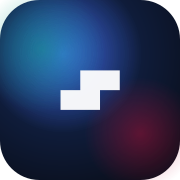
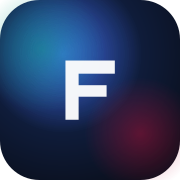
Rename: Saves → Finds
Product brand commitment after Saved-vs-Kept-vs-Finds analysis. Finds
wins on every dimension: natural English ('what's your latest find?'),
positive connotation (discovery), maps directly to the user's action
(spotting something interesting on Instagram), captures the household
share dynamic (Keelin's finds, our finds), and doesn't carry feature-
name baggage like Saves did.

User-facing rename:
- public/icon.svg now uses a block-F glyph instead of the S; PNG icons
  regenerated via npm run icons
- components/animated-wordmark.tsx letters: 'Saves' → 'Finds', per-letter
  min-widths tuned for the new glyphs
- app/layout.tsx metadata: title 'Finds', appleWebApp.title 'Finds',
  new tagline 'The things you find, kept.'
- public/manifest.json: name 'Finds', short_name 'Finds', new description
- app/login/page.tsx: header reads Finds
- app/saves/[id]/page.tsx: back link 'All Finds'
- app/add/add-form.tsx: 'Save It' button → 'Keep' (brand-aligned action)
- components/feed/feed-client.tsx: empty state 'No finds yet', CTA 'Add
  your first find →'
- app/map/map-client.tsx: empty state 'No places yet'
- app/settings/page.tsx: Shortcut copy updated to 'Send to Finds'

Internal kept stable (avoids cascading code changes):
- package.json name changed for cleanliness (saves-scaffold → finds)
- /saves/[id] route, lib/data/saves.ts, getFeedSaves(), the  DB
  table, save_category enum — all retain the legacy 'save' identifier.
[…]

Changed region(s): [[0.3333, 0.3333, 0.6667, 0.6667]]

diff --git a/app/settings/page.tsx b/app/settings/page.tsx
@@ -36,8 +36,8 @@ export default async function SettingsPage() {
           <header className="space-y-1.5">
             <p className="font-mono text-[10px] tracking-widest text-white/30">iOS Shortcut</p>
             <p className="text-[13px] text-white/55 leading-relaxed max-w-prose">
-              Save from any app — Instagram, Safari, Mail — without leaving it.
-              The Shortcut posts the URL to Saves in the background and shows
+              Send a find from any app — Instagram, Safari, Mail — without leaving it.
+              The Shortcut posts the URL to Finds in the background and shows
               a brief confirmation notification.
             </p>
           </header>
@@ -45,7 +45,7 @@ export default async function SettingsPage() {
           <ol className="space-y-3 text-[13px] text-white/65 leading-relaxed">
             <li className="flex gap-3">
               <span className="font-mono text-[10px] text-white/30 mt-0.5">1</span>
-              <span>Open <strong className="text-white/85">Shortcuts</strong> app, tap <strong className="text-white/85">+</strong>, name it <em>Save To Saves</em>.</span>
+              <span>Open <strong className="text-white/85">Shortcuts</strong> app, tap <strong className="text-white/85">+</strong>, name it <em>Send to Finds</em>.</span>
             </li>
             <li className="flex gap-3">
               <span className="font-mono text-[10px] text-white/30 mt-0.5">2</span>
@@ -69,11 +69,11 @@ export default async function SettingsPage() {
             </li>
             <li className="flex gap-3">
               <span className="font-mono text-[10px] text-white/30 mt-0.5">5</span>
-              <span>Add action: <strong className="text-white/85">Show Notification</strong>. Set the body to <em>Saved to Saves</em>.</span>
+              <span>Add action: <strong className="text-white/85">Show Notification</strong>. Set the body to <em>Saved to Finds</em>.</span>
             </li>
             <li className="flex gap-3">
               <span className="font-mono text-[10px] text-white/30 mt-0.5">6</span>
-              <span>Done. Test from Safari → tap share → Save To Saves → notification fires, you stay in the app you came from.</span>
+              <span>Done. Test from Safari → tap share → Send to Finds → notification fires, you stay in the app you came from.</span>
             </li>
           </ol>
 

diff --git a/components/animated-wordmark.tsx b/components/animated-wordmark.tsx
@@ -10,7 +10,7 @@ const FONTS = [
   { family: 'var(--font-pixel-c)', size: '22px', letterSpacing: '0.06em' },   // Silkscreen — sharp, thicker stroke
 ] as const
 
-const LETTERS = ['S', 'a', 'v', 'e', 's'] as const
+const LETTERS = ['F', 'i', 'n', 'd', 's'] as const
 
 // Each letter gets an independent timer offset so changes feel organic
 const LETTER_CONFIG = [
@@ -71,7 +71,13 @@ function AnimLetter({
         transition: 'opacity 0.13s ease-in-out',
         display: 'inline-block',
         // Fixed width so layout doesn't shift as fonts change
-        minWidth: char === 'S' ? '0.65em' : char === 'a' ? '0.62em' : char === 'v' ? '0.62em' : char === 'e' ? '0.58em' : '0.50em',
+        minWidth:
+          char === 'F' ? '0.58em' :
+          char === 'i' ? '0.30em' :
+          char === 'n' ? '0.62em' :
+          char === 'd' ? '0.62em' :
+          char === 's' ? '0.50em' :
+          '0.55em',
         textAlign: 'center',
         lineHeight: 1,
         verticalAlign: 'baseline',

diff --git a/app/layout.tsx b/app/layout.tsx
@@ -42,9 +42,11 @@ const silkscreen = Silkscreen({
 });
 
 export const metadata: Metadata = {
+  // Domain swap to finds.dylandibona.com is pending; keep the current
+  // production hostname here until DNS + Supabase + OAuth are updated.
   metadataBase: new URL("https://saves.dylandibona.com"),
-  title: { default: "Saves", template: "%s · Saves" },
-  description: "Your personal recommendation library.",
+  title: { default: "Finds", template: "%s · Finds" },
+  description: "The things you find, kept.",
   manifest: "/manifest.json",
   icons: {
     icon: [
@@ -55,7 +57,7 @@ export const metadata: Metadata = {
   },
   appleWebApp: {
     capable: true,
-    title: "Saves",
+    title: "Finds",
     statusBarStyle: "black-translucent",
   },
 };

diff --git a/app/map/map-client.tsx b/app/map/map-client.tsx
@@ -323,7 +323,7 @@ export function MapClient({ saves }: { saves: MapSave[] }) {
               <path d="M21 10c0 7-9 13-9 13s-9-6-9-13a9 9 0 0 1 18 0z"/>
               <circle cx="12" cy="10" r="3"/>
             </svg>
-            <p className="font-serif text-lg text-white/75">No places saved yet</p>
+            <p className="font-serif text-lg text-white/75">No places yet</p>
             <p className="font-mono text-[11px] text-white/32">Paste a Google Maps link when adding a save</p>
             <a href="/add" className="inline-block mt-1 font-mono text-[11px] text-white/45 hover:text-white/75 transition-colors underline underline-offset-4 decoration-white/18">
               Add a place

diff --git a/components/feed/feed-client.tsx b/components/feed/feed-client.tsx
@@ -156,12 +156,12 @@ export function FeedClient({
       {filtered.length === 0 ? (
         <div className="py-20 text-center">
           <p className="text-white/30 text-sm font-mono">
-            {query || active ? 'Nothing matches.' : 'Nothing saved yet.'}
+            {query || active ? 'Nothing matches.' : 'No finds yet.'}
           </p>
           {!query && !active && (
             <a href="/add"
               className="mt-3 inline-block text-sm text-white/45 hover:text-white/80 transition-colors underline underline-offset-4 decoration-white/20">
-              Add your first save →
+              Add your first find →
             </a>
           )}
         </div>

diff --git a/app/login/page.tsx b/app/login/page.tsx
@@ -9,8 +9,8 @@ export default function LoginPage({
     <div className="min-h-screen flex items-center justify-center bg-stone-50">
       <div className="w-full max-w-sm space-y-8 px-4">
         <div className="space-y-1">
-          <h1 className="font-serif text-3xl text-stone-900">Saves</h1>
-          <p className="text-sm text-stone-500">Your personal recommendation library.</p>
+          <h1 className="font-serif text-3xl text-stone-900">Finds</h1>
+          <p className="text-sm text-stone-500">The things you find, kept.</p>
         </div>
         <LoginForm searchParams={searchParams} />
       </div>

diff --git a/app/share/route.ts b/app/share/route.ts
@@ -5,7 +5,7 @@ import type { NextRequest } from 'next/server'
  * PWA Share Target endpoint.
  *
  * When the user shares from another app (Instagram, Safari, etc) and picks
- * "Saves" from the share sheet, the OS sends the shared content here as a
+ * "Finds" from the share sheet, the OS sends the shared content here as a
  * GET request with `title`, `text`, and/or `url` query params.
  *
  * Different apps put the URL in different fields:

diff --git a/app/saves/[id]/page.tsx b/app/saves/[id]/page.tsx
@@ -68,7 +68,7 @@ export default async function SaveDetailPage({ params }: { params: Promise<{ id:
           <svg width="9" height="9" viewBox="0 0 12 12" fill="none">
             <path d="M7.5 2.5 4 6l3.5 3.5" stroke="currentColor" strokeWidth="1.6" strokeLinecap="round" strokeLinejoin="round"/>
           </svg>
-          All Saves
+          All Finds
         </Link>
 
         {/* Hero */}

diff --git a/app/add/add-form.tsx b/app/add/add-form.tsx
@@ -360,7 +360,7 @@ export function AddForm({ initialUrl = '' }: { initialUrl?: string }) {
           type="submit"
           className="chip chip-off font-mono text-[12px] tracking-wider px-10 py-3 rounded-full hover:!text-white active:scale-95 transition-transform"
         >
-          Save It
+          Keep
         </button>
       </div>
 

diff --git a/STRATEGY.md b/STRATEGY.md
@@ -1,8 +1,8 @@
-# Strategy — reset of "Saves"
+# Strategy — reset of "Finds"
 
 **Status:** Strategic plan as of 2026-05-10. Reset moment after the working private build (see `CLAUDE.md`). Authored by Claude in collaboration with Dylan.
 
-> **Premise:** What we have is a competent personal tool. What we want is a business. This document is the bridge — what Saves *should* be, evaluated independent of what it currently is.
+> **Premise:** What we have is a competent personal tool. What we want is a business. This document is the bridge — what Finds *should* be, evaluated independent of what it currently is.
 
 ---
 
@@ -10,7 +10,7 @@
 
 1. **Position:** *"Mymind for couples — multi-category, beautifully kept, AI-organized."* The wedge nobody owns.
 2. **Audience:** Couples and small households (2–4 people) who are aesthetically discerning, save 50+ things/year, and already share via DMs. Not "everyone." Not solo bookmark power-users (Raindrop owns that). Not single-category obsessives (Letterboxd/Recime own those).
-3. **Brand:** Rename. "Saves" is a feature. The product needs a one-syllable noun-name that connotes *a kept place, two people, quietly tended.* Top candidate: **Cairn**.
+3. **Brand:** Rename. "Finds" is a feature. The product needs a one-syllable noun-name that connotes *a kept place, two people, quietly tended.* Top candidate: **Cairn**.
 4. **Pricing:** $8/mo personal, $12/mo household, $199 lifetime founding-member capped at 500. Premium tier, not utility tier.
 5. **Product reset:** Five signature flows — Capture, Library, Tonight, Trip, Cellar — replace the generic feed-of-cards mental model. Each one has at least one moment of designed delight.
 6. **Build target:** Public-launchable v1 in **4–5 months of focused work**. Native iOS app, real onboarding, real brand, all five flows shipped. No "just enough." No "MVP-but-still."
@@ -24,7 +24,7 @@ The private build works. It has correct primitives — captures, household, reco
 
 What it lacks is the difference between a tool and a product:
 
-- **No identity.** "Saves" reads as a feature name. The brand is an aesthetic, not a story.
+- **No identity.** "Finds" reads as a feature name. The brand is an aesthetic, not a story.
 - **No moment of delight that can't be replicated by Recime in two weekends.** Today's differentiator is "AI extraction across categories" — real, but copyable.
 - **No surfacing logic.** A library that shows everything chronologically is closer to a database than to a kept place.
 - **No onboarding.** New users land in an empty feed with no story.
@@ -62,7 +62,7 @@ Three moves this sentence makes that no competitor makes:
 
 State this so the design stays disciplined:
 
-- **Solo aesthetes** (Mymind has them). Saves works for them but doesn't lead with single-player.
+- **Solo aesthetes** (Mymind has them). Finds works for them but doesn't lead with single-player.
 - **Bookmark power-users** (Raindrop has them). Folder hierarchies and granular tagging aren't our game.
 - **Discovery-seekers** (Pinterest has them). We don't surface other people's saves; we surface yours.
 - **Productivity stackers** (Notion has them). We're not building blocks for people who want to compose their own system.
@@ -81,10 +81,10 @@ State this so the design stays disciplined:
 
 ### Why rename
 
-"Saves" has three structural problems:
-- **Feature, not product.** "Save to Saves" sounds like a Notion clipper feature.
+"Finds" has three structural problems:
+- **Feature, not product.** "Save to Finds" sounds like a Notion clipper feature.
 - **Search-invisible.** App Store search for "saves" returns gambling apps and Pokémon save guides.
-- **Nothing to fall in love with.** Bear, Mymind, Are.na, Things, Beli all feel like *places.* "Saves" feels like a verb.
+- **Nothing to fall in love with.** Bear, Mymind, Are.na, Things, Beli all feel like *places.* "Finds" feels like a verb.
 
 The pattern that works in this category: one-or-two-syllable common nouns connoting *a kept thing, quietly, well.* Bear, Things, Mem, Arc, Otto, Beli, Reflect, Granola, Vellum.
 
@@ -245,8 +245,8 @@ This is the feature most likely to drive premium upgrades. The household pitch i
 The save library accumulates entropy. Without a cellar, every library becomes a graveyard. Mymind avoids this with sheer aesthetic; we can do better with explicit decay-aware UX.
 
 **Logic:**
-- Saves never auto-delete.
-- Saves older than ~6 months with zero engagement get a gentle "Cellar" status — visible in a separate view, not in the main library.
+- Finds never auto-delete.
+- Finds older than ~6 months with zero engagement get a gentle "Cellar" status — visible in a separate view, not in the main library.
 - Once a quarter, a "Cellar visit" surface offers ~5 saves: "Still want to read this? Still want to try this place? Or release it?" Three taps to revisit, archive, or delete.
 - Deletion is always two-step (confirmation modal, already built).
 
@@ -299,9 +299,9 @@ Android can wait until iOS validates the model.
 ### Surfacing engine ("Tonight," geo resurfacing)
 
 A daily cron that, per household, computes:
-- Saves matching today's time-of-day + season window.
-- Saves within 500m of last known location.
-- Saves that haven't been viewed in 90+ days, weighted by how often they're searched.
+- Finds matching today's time-of-day + season window.
+- Finds within 500m of last known location.
+- Finds that haven't been viewed in 90+ days, weighted by how often they're searched.
 
 Stores ~5 candidates in a `surfaces_today` table. Home view reads from there, not from full library.
 
@@ -343,7 +343,7 @@ Stripe via the Supabase auth integration. Three plans (Free, Personal, Household
 
 ### Why these numbers
 
-- **$8/$12 anchors premium.** Mymind ($7–13), Reflect ($10), Mem ($10) all live here. Recime/Raindrop ($5/$3) are the utility tier; Saves is not a utility.
+- **$8/$12 anchors premium.** Mymind ($7–13), Reflect ($10), Mem ($10) all live here. Recime/Raindrop ($5/$3) are the utility tier; Finds is not a utility.
 - **Annual discount = 25%** is the standard pull.
 - **Household at 1.5× personal** is below industry norm (Apple One is ~1.5×, 1Password Families is ~1.7×) — pricing aggressively because the household pitch IS the product.
 - **$199 lifetime founding** = 16 months of household at full price. Believable to early adopters, generates ~$100k of cash if all 500 sell.
@@ -376,7 +376,7 @@ The unit economics are fine because the AI cost is bounded by user behavior. Peo
 | **Year 1** | 2,000 paid | ~$24k MRR | $288k |
 | **Year 2** | 8,000 paid | ~$96k MRR | $1.15M |
 
-These are conservative — Mymind has ~30k paid in 5 years; Are.na has ~18k paid in 12 years. Saves' household pitch is more mainstream than either.
+These are conservative — Mymind has ~30k paid in 5 years; Are.na has ~18k paid in 12 years. Finds' household pitch is more mainstream than either.
 
 ### Distribution
 
@@ -394,7 +394,7 @@ What we don't do: paid Facebook/Instagram ads, performance marketing tracked by 
 
 ### Side-by-side
 
-| Dimension | Mymind | Recime | Raindrop | Notion | **Saves** |
+| Dimension | Mymind | Recime | Raindrop | Notion | **Finds** |
 |---|---|---|---|---|---|
 | Multi-category | ✓ | ✗ (recipes) | ✓ | ✓ | ✓ |
 | AI extraction | ✓ | ✓ | ✗ | ✗ | ✓ |
@@ -463,7 +463,7 @@ Build the actual product differentiation.
 - **Trip** — destination mode. Map-anchored, day planner, shared decisions UI.
 - **Cellar** — old-save resurfacing. Quarterly visit surface.
 
-Output: the product Saves *is*, fully realized.
+Output: the product Finds *is*, fully realized.
 
 ### Phase 3 — Native iOS app (8–10 weeks)
 
@@ -485,7 +485,7 @@ Output: App Store submission.
 - Stripe billing live with all three tiers.
 - 500 lifetime members cap visible on landing.
 
-Output: Saves is in the market.
+Output: Finds is in the market.
 
 ### Phase 5 — Iterate on signal (ongoing)
 

diff --git a/CLAUDE.md b/CLAUDE.md
@@ -8,11 +8,11 @@ Guidance for Claude Code when working in this repository. **Keep this file curre
 
 ## 1. What this is
 
-**Saves** is a personal recommendation library. The destination, not a bookmark. The save itself contains enough context (ingredients, sets, hours, summary, hero image) that the user never has to click through to the source again.
+**Finds** is a personal recommendation library. The destination, not a bookmark. The save itself contains enough context (ingredients, sets, hours, summary, hero image) that the user never has to click through to the source again.
 
-**Origin story:** Dylan and Keelin (a couple) share restaurants, recipes, workouts, TV shows, movies, and places via Instagram DMs. Those recommendations get buried and lost. Saves captures, enriches, and surfaces them in a calm, searchable library shared between them.
+**Origin story:** Dylan and Keelin (a couple) share restaurants, recipes, workouts, TV shows, movies, and places via Instagram DMs. Those recommendations get buried and lost. Finds captures, enriches, and surfaces them in a calm, searchable library shared between them.
 
-**Reference point:** [Recime](https://www.recime.app/), but for *every* category — not just recipes. Recime proves the "share-from-anywhere → AI-extracts-structure → beautiful library" format. Saves widens the thesis to all save types: recipes, restaurants, places, hotels, shows, articles, workouts, products, podcasts, music, books.
+**Reference point:** [Recime](https://www.recime.app/), but for *every* category — not just recipes. Recime proves the "share-from-anywhere → AI-extracts-structure → beautiful library" format. Finds widens the thesis to all find types: recipes, restaurants, places, hotels, shows, articles, workouts, products, podcasts, music, books.
 
 **Design principle:** a beautifully kept notebook, not a feed. No streaks, no engagement nudges, no gamification. The app should feel like a physical object — jewel-toned, dimensional, tactile. 80% mobile usage.
 
@@ -30,9 +30,9 @@ Guidance for Claude Code when working in this repository. **Keep this file curre
 | Repo | `https://github.com/dylandibona/saves` | dylandibona personal account; commits authored as `Dylan DiBona <dylan@dylandibona.com>` |
 | Vercel project | Personal "dbone" account, project name `saves` | Hobby tier, "Dylan's projects" team |
 | Supabase project | ref `lqmjglpzrfcpnpshbjwo` | Account: dylandibona (NOT Natrx) |
-| Google OAuth | Cloud Console "Saves" project | Authorized origins: `saves.dylandibona.com`. Authorized redirect URI: `https://lqmjglpzrfcpnpshbjwo.supabase.co/auth/v1/callback` |
+| Google OAuth | Cloud Console project (legacy name "Saves") | Authorized origins: `saves.dylandibona.com` (will need `finds.dylandibona.com` once domain swaps). Authorized redirect URI: `https://lqmjglpzrfcpnpshbjwo.supabase.co/auth/v1/callback` |
 | Apple SIWA | Services ID `app.saves.siwa` | Domain `saves.dylandibona.com` registered. Domain verification file pending. |
-| Google Maps API | Cloud Console "Saves" project | Maps JavaScript API enabled. Currently unrestricted — needs HTTP referrer restriction. |
+| Google Maps API | Cloud Console project (legacy name "Saves") | Maps JavaScript API enabled. Currently unrestricted — needs HTTP referrer restriction. |
 
 ---
 
@@ -83,7 +83,7 @@ End-to-end tested in production by Dylan unless noted otherwise:
 | **Save visibility toggle** | ✅ Working | Shared (default) vs Just me. RLS enforced at DB level — partner literally can't see private saves. Lock icon shown in feed and detail. |
 | **Delete save** | ✅ Working | Confirmation modal (Framer Motion). Soft-delete via `status='archived'` so dedup logic doesn't resurrect on re-add. |
 | **DD/KL identity pills** | ✅ Working | Initials chip in user color on feed + detail. Mapping in `lib/utils/identity.ts` — explicit `dylan→DD, keelin→KL` overrides; falls back to email local part. |
-| **Animated wordmark** | ✅ Working | "Saves" letter-by-letter cycles between Pixelify Sans, VT323, Silkscreen on staggered timers. |
+| **Animated wordmark** | ✅ Working | "Finds" letter-by-letter cycles between Pixelify Sans, VT323, Silkscreen on staggered timers. |
 | **Settings page at `/settings`** | ✅ Working | Token generate/show/copy/regenerate. Step-by-step Shortcut config (instructions need work — see backlog). |
 | **`POST /api/share-save`** | ✅ Working server-side | Token auth, runs enrichment, dedups by canonical_url, creates save + capture. Logs to Vercel runtime. Not yet integrated end-to-end with a working Shortcut. |
 | **PWA manifest + share_target** | ⚠ Manifest configured, not yet validated end-to-end | When installed via Safari "Add to Home Screen", iOS share sheet should route shares to the PWA app. Needs install + test. |
@@ -98,7 +98,7 @@ End-to-end tested in production by Dylan unless noted otherwise:
 |---|---|---|
 | **iOS Shortcut config** | Apple's Shortcuts UI varies by iOS version; the manual setup walkthrough on `/settings` doesn't match what users actually see. User got stuck mid-config. | This was supposed to be the "stays in Instagram" path. Replacement: distribute a pre-built `.shortcut` via iCloud share link (one-tap install), or rely on PWA Share Target instead. |
 | **PWA Share Target** | Code is in place (`public/manifest.json` + `app/share/route.ts`) but never validated end-to-end on a real device. | Primary path forward for "share from Instagram" UX — needs installation + test. |
-| **Existing pre-extraction saves** | Saves created before the extraction feature have empty `canonical_data.extracted`. No backfill or re-process action exists. | First few saves Dylan made look threadbare on the detail page. Workaround: delete + re-share. |
+| **Existing pre-extraction finds** | Finds created before the extraction feature have empty `canonical_data.extracted`. No backfill or re-process action exists. | First few finds Dylan made look threadbare on the detail page. Workaround: delete + re-share. |
 | **Keelin onboarding** | She hasn't signed up yet. Needs to go through Google/magic-link flow. Her self-recommender will be created by the trigger but `display_name` won't be set; identity helper has hardcoded `keelin→KL` mapping that depends on her email containing "keelin". | Single-user app right now. |
 | **Apple SIWA** | Domain verification file (`apple-developer-domain-association.txt`) needs to be served at `/.well-known/`. Apple will reject sign-ins until done. | Anyone trying Apple sign-in fails silently or sees Apple's error page. |
 | **Google Maps API key** | Currently unrestricted. Anyone can use it from any domain by reading the bundle. | Security/billing risk — should restrict to `saves.dylandibona.com/*` (and `localhost:3000/*` for dev). |

diff --git a/REQUIREMENTS.md b/REQUIREMENTS.md
@@ -24,7 +24,7 @@ Common pattern:
 - **Aesthetic point of view.** Not "nice" — a specific opinion.
 - **Surprising depth in one direction.** Linear goes deep on keyboard. Things goes deep on time. Arc goes deep on browsing. Pick a depth, own it.
 
-For Saves, two candidates for the signature moment:
+For Finds, two candidates for the signature moment:
 
 1. **Capture-build animation** — the moment of capture is the first impression. Paste a URL, watch the AI extract the save in real-time in front of you. The signature for *new users.*
 2. **Tonight's offering** — daily-changing single-thing-that-matters. The signature for *returning users.*
@@ -45,7 +45,7 @@ Every one of these is a designed moment, not a feature. Twenty-three things to m
 
 3. **"Already saved" gentle overlap.** Save the same thing twice → the app shows the existing save with "you already have this — save again to add a note?" Not a modal. Just the existing card surfacing.
 
-4. **Voice capture** (later phase). "Hey Saves, save that podcast Marco mentioned at dinner." Audio → transcription → smart context resolution → save with a contextual note.
+4. **Voice capture** (later phase). "Hey Finds, save that podcast Marco mentioned at dinner." Audio → transcription → smart context resolution → save with a contextual note.
 
 5. **Email-in confirmation.** Forward any link to your `capture@cairn.so` (or wherever) → email reply confirms with a beautiful card preview, no app needed. The capture surface that works on a 9-year-old browser.
 
@@ -89,7 +89,7 @@ Every one of these is a designed moment, not a feature. Twenty-three things to m
 
 21. **Place → nearby check.** Tap a place save → "Open in Maps" with mode selected based on time of day (transit during commute, walking on weekends).
 
-22. **Article → read on flight.** Saves marked for "later reading" can be downloaded as a bundle for offline.
+22. **Article → read on flight.** Finds marked for "later reading" can be downloaded as a bundle for offline.
 
 ### Sharing moments
 
@@ -308,7 +308,7 @@ Each flow gets ~2–3 weeks of dedicated design + engineering. Order matters: Ca
 - **Cellar (2 weeks)** — quarterly visit surface, archive flow, "still want this?" prompt design.
 - **Polish + integration (3 weeks)** — recipe-to-Reminders, workout-to-Health, single-save public share-out URL, app-wide motion pass.
 
-Output: the product Saves *is*.
+Output: the product Finds *is*.
 
 ### Phase 3 — Native iOS (12–16 weeks)
 
@@ -373,7 +373,7 @@ To hit "shockingly fun":
 
 This isn't a "few weeks" project. It's the multi-month build of a real product that has a chance of mattering. The reason every detail has to be considered is that the apps that clear this bar — Linear, Things, Mymind, Bear, Arc — *all* spent a year-plus on each of their first releases with small focused teams.
 
-The Saves we have today is a strong proof of concept. The Saves you're describing is a different category of artifact.
+The Finds we have today is a strong proof of concept. The Finds you're describing is a different category of artifact.
 
 ---
 
